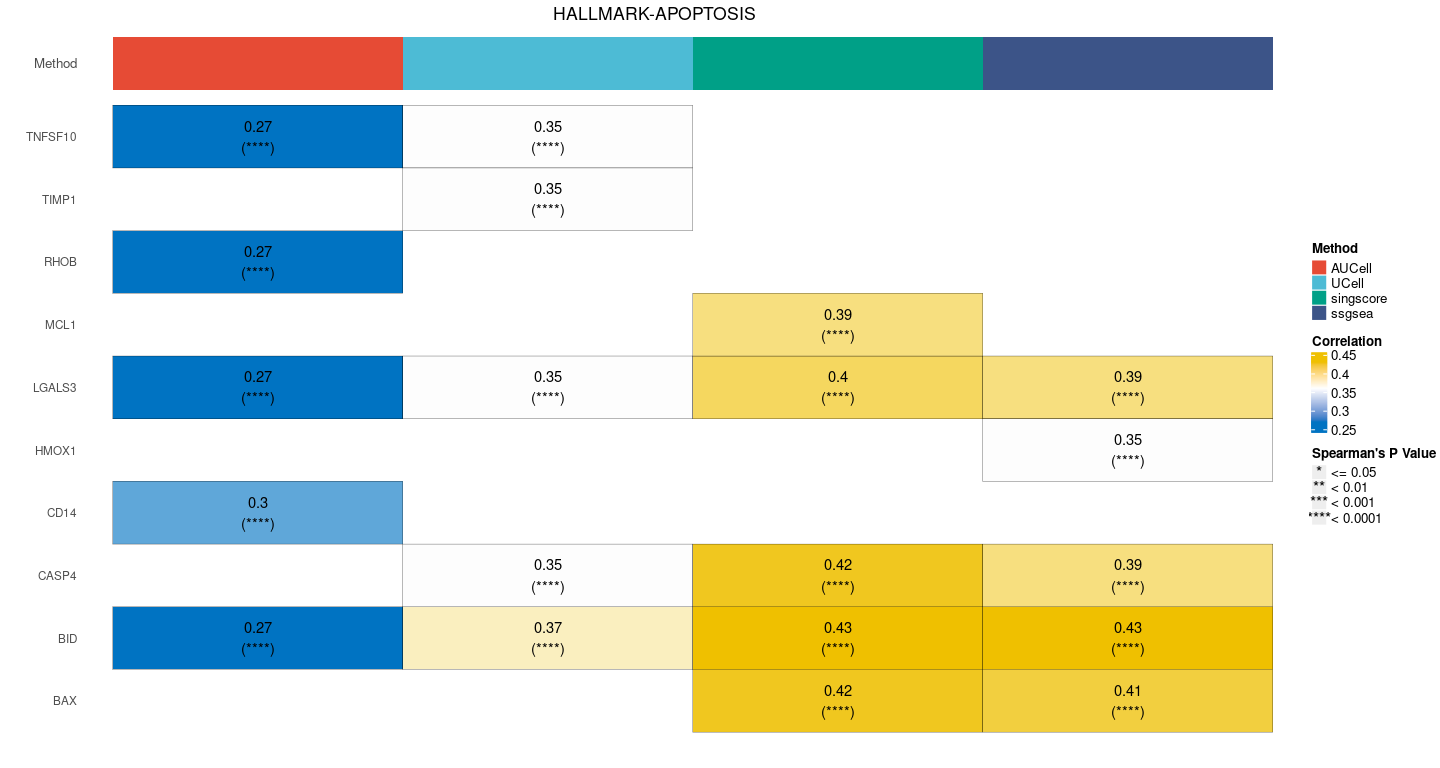
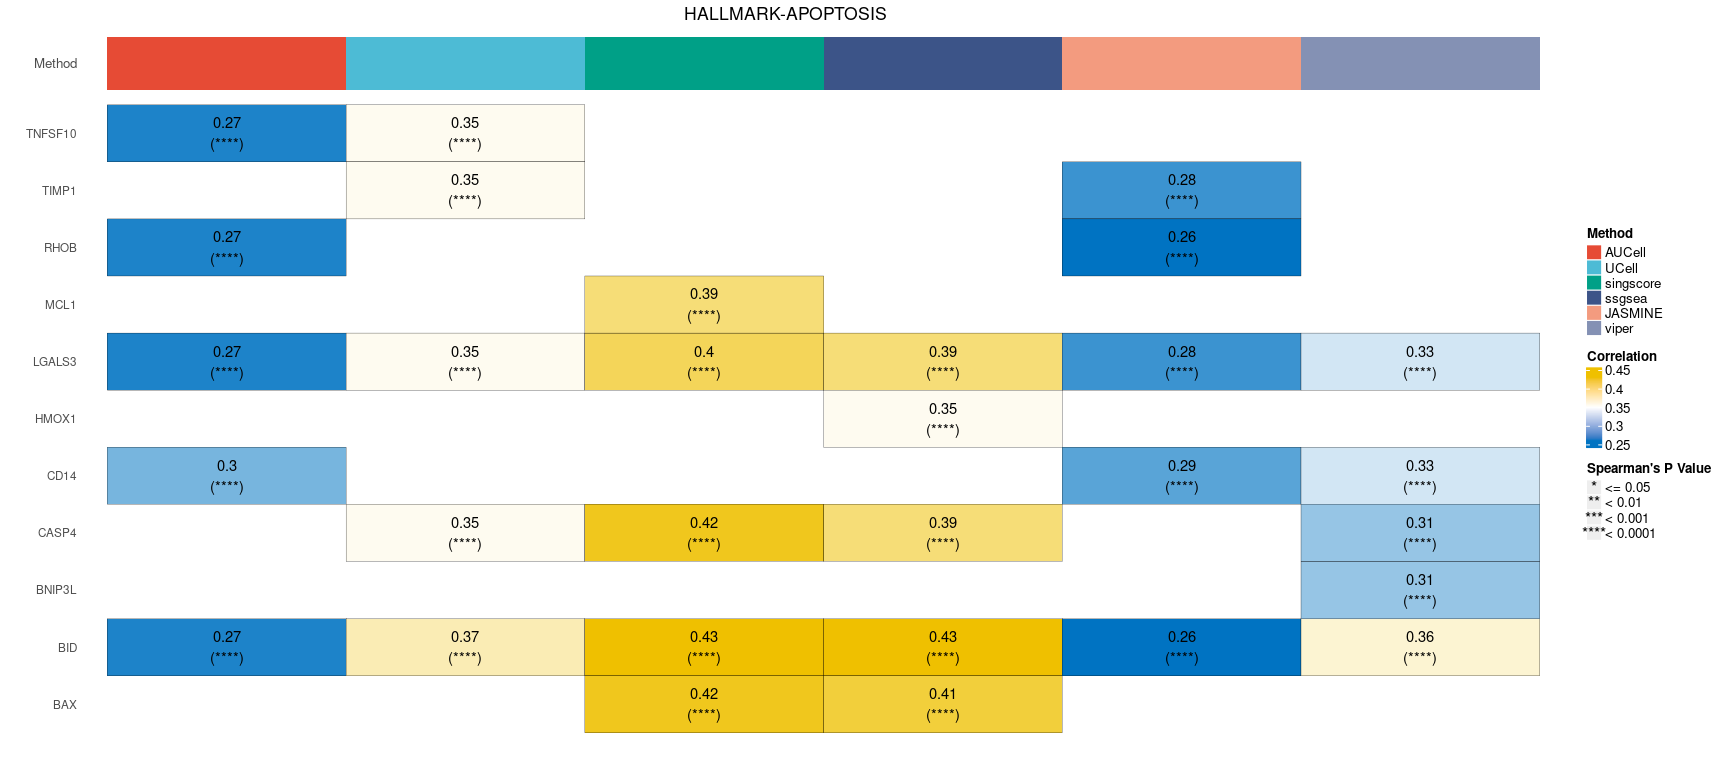
fix the bug of irGSEA.hub

diff --git a/docs/index.html b/docs/index.html
@@ -34,7 +34,7 @@
       </button>
       <span class="navbar-brand">
         <a class="navbar-link" href="index.html">irGSEA</a>
-        <span class="version label label-default" data-toggle="tooltip" data-placement="bottom" title="">3.2.1</span>
+        <span class="version label label-default" data-toggle="tooltip" data-placement="bottom" title="">3.2.2</span>
       </span>
     </div>
 
@@ -529,7 +529,8 @@
 <p>calculate the hub gene of the geneset based on the correlation between the geneset’s score and the expression or rank of gene included in the geneset</p>
 <div class="sourceCode" id="cb19"><pre class="downlit sourceCode r">
 <code class="sourceCode R"><span><span class="va">hub.result</span> <span class="op">&lt;-</span> <span class="fu"><a href="reference/irGSEA.hub.html">irGSEA.hub</a></span><span class="op">(</span>object <span class="op">=</span> <span class="va">pbmc3k.final</span>, assay <span class="op">=</span> <span class="st">"RNA"</span>, slot <span class="op">=</span> <span class="st">"data"</span>,</span>
-<span>                         method <span class="op">=</span> <span class="fu"><a href="https://rdrr.io/r/base/c.html" class="external-link">c</a></span><span class="op">(</span><span class="st">"AUCell"</span>,<span class="st">"UCell"</span>,<span class="st">"singscore"</span>, <span class="st">"ssgsea"</span><span class="op">)</span>,</span>
+<span>                         method <span class="op">=</span> <span class="fu"><a href="https://rdrr.io/r/base/c.html" class="external-link">c</a></span><span class="op">(</span><span class="st">"AUCell"</span>,<span class="st">"UCell"</span>,<span class="st">"singscore"</span>, <span class="st">"ssgsea"</span>,</span>
+<span>                                     <span class="st">"JASMINE"</span>, <span class="st">"viper"</span><span class="op">)</span>,</span>
 <span>                         show.geneset <span class="op">=</span> <span class="fu"><a href="https://rdrr.io/r/base/c.html" class="external-link">c</a></span><span class="op">(</span><span class="st">"HALLMARK-INFLAMMATORY-RESPONSE"</span>,</span>
 <span>                                          <span class="st">"HALLMARK-APOPTOSIS"</span><span class="op">)</span>,</span>
 <span>                         ncores <span class="op">=</span> <span class="fl">4</span>, type <span class="op">=</span> <span class="st">"rank"</span>, maxRank <span class="op">=</span> <span class="fl">2000</span>, top <span class="op">=</span> <span class="fl">5</span>,</span>
@@ -545,6 +546,12 @@
 <span><span class="co">#&gt; HALLMARK-INFLAMMATORY-RESPONSE</span></span>
 <span><span class="co">#&gt; HALLMARK-APOPTOSIS</span></span>
 <span><span class="co">#&gt; ssgsea</span></span>
+<span><span class="co">#&gt; HALLMARK-INFLAMMATORY-RESPONSE</span></span>
+<span><span class="co">#&gt; HALLMARK-APOPTOSIS</span></span>
+<span><span class="co">#&gt; JASMINE</span></span>
+<span><span class="co">#&gt; HALLMARK-INFLAMMATORY-RESPONSE</span></span>
+<span><span class="co">#&gt; HALLMARK-APOPTOSIS</span></span>
+<span><span class="co">#&gt; viper</span></span>
 <span><span class="co">#&gt; HALLMARK-INFLAMMATORY-RESPONSE</span></span>
 <span><span class="co">#&gt; HALLMARK-APOPTOSIS</span></span>
 <span><span class="co">#&gt; Warning: Unknown or uninitialised column: `text`.</span></span>
@@ -691,8 +698,8 @@
 <span><span class="fu"><a href="https://rdrr.io/r/utils/unzip.html" class="external-link">unzip</a></span><span class="op">(</span><span class="va">local_zip_path</span>, exdir <span class="op">=</span> <span class="st">"./"</span><span class="op">)</span></span>
 <span></span>
 <span><span class="co"># code modified by https://rdrr.io/github/cashoes/sear/src/data-raw/1_parse_msigdb_sqlite.r</span></span>
-<span><span class="va">con</span> <span class="op">&lt;-</span> <span class="fu">DBI</span><span class="fu">::</span><span class="fu"><a href="https://dbi.r-dbi.org/reference/dbConnect.html" class="external-link">dbConnect</a></span><span class="op">(</span><span class="fu">RSQLite</span><span class="fu">::</span><span class="fu"><a href="https://rdrr.io/pkg/RSQLite/man/SQLite.html" class="external-link">SQLite</a></span><span class="op">(</span><span class="op">)</span>, dbname <span class="op">=</span> <span class="st">'./msigdb_v2023.2.Hs.db'</span><span class="op">)</span></span>
-<span><span class="fu">DBI</span><span class="fu">::</span><span class="fu"><a href="https://dbi.r-dbi.org/reference/dbListTables.html" class="external-link">dbListTables</a></span><span class="op">(</span><span class="va">con</span><span class="op">)</span></span>
+<span><span class="va">con</span> <span class="op">&lt;-</span> <span class="fu">DBI</span><span class="fu">::</span><span class="fu"><a href="https://rdrr.io/pkg/DBI/man/dbConnect.html" class="external-link">dbConnect</a></span><span class="op">(</span><span class="fu">RSQLite</span><span class="fu">::</span><span class="fu"><a href="https://rsqlite.r-dbi.org/reference/SQLite.html" class="external-link">SQLite</a></span><span class="op">(</span><span class="op">)</span>, dbname <span class="op">=</span> <span class="st">'./msigdb_v2023.2.Hs.db'</span><span class="op">)</span></span>
+<span><span class="fu">DBI</span><span class="fu">::</span><span class="fu"><a href="https://rdrr.io/pkg/DBI/man/dbListTables.html" class="external-link">dbListTables</a></span><span class="op">(</span><span class="va">con</span><span class="op">)</span></span>
 <span></span>
 <span><span class="co"># define tables we want to combine</span></span>
 <span><span class="va">geneset_db</span> <span class="op">&lt;-</span> <span class="fu">dplyr</span><span class="fu">::</span><span class="fu"><a href="https://dplyr.tidyverse.org/reference/tbl.html" class="external-link">tbl</a></span><span class="op">(</span><span class="va">con</span>, <span class="st">'gene_set'</span><span class="op">)</span>                                              <span class="co"># standard_name, collection_name</span></span>
@@ -708,10 +715,10 @@
 <span>  <span class="fu">dplyr</span><span class="fu">::</span><span class="fu"><a href="https://dplyr.tidyverse.org/reference/mutate-joins.html" class="external-link">left_join</a></span><span class="op">(</span><span class="va">geneset_genesymbol_db</span>, by <span class="op">=</span> <span class="fu"><a href="https://rdrr.io/r/base/c.html" class="external-link">c</a></span><span class="op">(</span><span class="st">'id'</span> <span class="op">=</span> <span class="st">'gene_set_id'</span><span class="op">)</span><span class="op">)</span> <span class="op"><a href="reference/pipe.html">%&gt;%</a></span></span>
 <span>  <span class="fu">dplyr</span><span class="fu">::</span><span class="fu"><a href="https://dplyr.tidyverse.org/reference/mutate-joins.html" class="external-link">left_join</a></span><span class="op">(</span><span class="va">genesymbol_db</span>, by <span class="op">=</span> <span class="fu"><a href="https://rdrr.io/r/base/c.html" class="external-link">c</a></span><span class="op">(</span><span class="st">'gene_symbol_id'</span> <span class="op">=</span> <span class="st">'id'</span><span class="op">)</span><span class="op">)</span> <span class="op"><a href="reference/pipe.html">%&gt;%</a></span></span>
 <span>  <span class="fu">dplyr</span><span class="fu">::</span><span class="fu"><a href="https://dplyr.tidyverse.org/reference/select.html" class="external-link">select</a></span><span class="op">(</span>collection <span class="op">=</span> <span class="va">collection_name</span>, subcollection <span class="op">=</span> <span class="va">full_name</span>, geneset <span class="op">=</span> <span class="va">standard_name</span>, description <span class="op">=</span> <span class="va">description_brief</span>, <span class="va">symbol</span><span class="op">)</span> <span class="op"><a href="reference/pipe.html">%&gt;%</a></span></span>
-<span>  <span class="fu">dplyr</span><span class="fu">::</span><span class="fu"><a href="https://rdrr.io/pkg/tibble/man/as_tibble.html" class="external-link">as_tibble</a></span><span class="op">(</span><span class="op">)</span> </span>
+<span>  <span class="fu">dplyr</span><span class="fu">::</span><span class="fu"><a href="https://tibble.tidyverse.org/reference/as_tibble.html" class="external-link">as_tibble</a></span><span class="op">(</span><span class="op">)</span> </span>
 <span></span>
 <span><span class="co"># clean up</span></span>
-<span><span class="fu">DBI</span><span class="fu">::</span><span class="fu"><a href="https://dbi.r-dbi.org/reference/dbDisconnect.html" class="external-link">dbDisconnect</a></span><span class="op">(</span><span class="va">con</span><span class="op">)</span></span>
+<span><span class="fu">DBI</span><span class="fu">::</span><span class="fu"><a href="https://rdrr.io/pkg/DBI/man/dbDisconnect.html" class="external-link">dbDisconnect</a></span><span class="op">(</span><span class="va">con</span><span class="op">)</span></span>
 <span></span>
 <span></span>
 <span><span class="fu"><a href="https://rdrr.io/r/base/unique.html" class="external-link">unique</a></span><span class="op">(</span><span class="va">msigdb</span><span class="op">$</span><span class="va">collection</span><span class="op">)</span></span>
@@ -774,8 +781,8 @@
 <span><span class="va">msigdb.vessel</span> <span class="op">&lt;-</span> <span class="fu"><a href="https://rdrr.io/r/base/list.html" class="external-link">list</a></span><span class="op">(</span><span class="op">)</span></span>
 <span><span class="kw">for</span> <span class="op">(</span><span class="va">i</span> <span class="kw">in</span> <span class="va">category</span><span class="op">)</span> <span class="op">{</span></span>
 <span>  <span class="co"># Ignore case matching</span></span>
-<span>  <span class="va">find.index.description</span> <span class="op">&lt;-</span> <span class="fu">stringr</span><span class="fu">::</span><span class="fu"><a href="https://stringr.tidyverse.org/reference/str_detect.html" class="external-link">str_detect</a></span><span class="op">(</span><span class="va">msigdb</span><span class="op">$</span><span class="va">description</span>, pattern <span class="op">=</span> <span class="fu"><a href="https://stringr.tidyverse.org/reference/modifiers.html" class="external-link">regex</a></span><span class="op">(</span><span class="fu"><a href="https://tidyselect.r-lib.org/reference/all_of.html" class="external-link">all_of</a></span><span class="op">(</span><span class="va">i</span><span class="op">)</span>, ignore_case<span class="op">=</span><span class="cn">TRUE</span><span class="op">)</span><span class="op">)</span></span>
-<span>  <span class="va">find.index.name</span> <span class="op">&lt;-</span> <span class="fu">stringr</span><span class="fu">::</span><span class="fu"><a href="https://stringr.tidyverse.org/reference/str_detect.html" class="external-link">str_detect</a></span><span class="op">(</span><span class="va">msigdb</span><span class="op">$</span><span class="va">geneset</span>, pattern <span class="op">=</span> <span class="fu"><a href="https://stringr.tidyverse.org/reference/modifiers.html" class="external-link">regex</a></span><span class="op">(</span><span class="fu"><a href="https://tidyselect.r-lib.org/reference/all_of.html" class="external-link">all_of</a></span><span class="op">(</span><span class="va">i</span><span class="op">)</span>, ignore_case<span class="op">=</span><span class="cn">TRUE</span><span class="op">)</span><span class="op">)</span></span>
+<span>  <span class="va">find.index.description</span> <span class="op">&lt;-</span> <span class="fu">stringr</span><span class="fu">::</span><span class="fu"><a href="https://stringr.tidyverse.org/reference/str_detect.html" class="external-link">str_detect</a></span><span class="op">(</span><span class="va">msigdb</span><span class="op">$</span><span class="va">description</span>, pattern <span class="op">=</span> <span class="fu"><a href="https://stringr.tidyverse.org/reference/modifiers.html" class="external-link">regex</a></span><span class="op">(</span><span class="fu"><a href="https://rdrr.io/pkg/tidyselect/man/all_of.html" class="external-link">all_of</a></span><span class="op">(</span><span class="va">i</span><span class="op">)</span>, ignore_case<span class="op">=</span><span class="cn">TRUE</span><span class="op">)</span><span class="op">)</span></span>
+<span>  <span class="va">find.index.name</span> <span class="op">&lt;-</span> <span class="fu">stringr</span><span class="fu">::</span><span class="fu"><a href="https://stringr.tidyverse.org/reference/str_detect.html" class="external-link">str_detect</a></span><span class="op">(</span><span class="va">msigdb</span><span class="op">$</span><span class="va">geneset</span>, pattern <span class="op">=</span> <span class="fu"><a href="https://stringr.tidyverse.org/reference/modifiers.html" class="external-link">regex</a></span><span class="op">(</span><span class="fu"><a href="https://rdrr.io/pkg/tidyselect/man/all_of.html" class="external-link">all_of</a></span><span class="op">(</span><span class="va">i</span><span class="op">)</span>, ignore_case<span class="op">=</span><span class="cn">TRUE</span><span class="op">)</span><span class="op">)</span></span>
 <span>  <span class="va">msigdb.vessel</span><span class="op">[[</span><span class="va">i</span><span class="op">]</span><span class="op">]</span> <span class="op">&lt;-</span> <span class="va">msigdb</span><span class="op">[</span><span class="va">find.index.description</span> <span class="op">|</span> <span class="va">find.index.name</span>, <span class="op">]</span> <span class="op"><a href="reference/pipe.html">%&gt;%</a></span> <span class="fu"><a href="https://dplyr.tidyverse.org/reference/mutate.html" class="external-link">mutate</a></span><span class="op">(</span>category <span class="op">=</span> <span class="va">i</span><span class="op">)</span></span>
 <span>  </span>
 <span><span class="op">}</span></span>

diff --git a/docs/authors.html b/docs/authors.html
@@ -17,7 +17,7 @@
       </button>
       <span class="navbar-brand">
         <a class="navbar-link" href="index.html">irGSEA</a>
-        <span class="version label label-default" data-toggle="tooltip" data-placement="bottom" title="">3.2.1</span>
+        <span class="version label label-default" data-toggle="tooltip" data-placement="bottom" title="">3.2.2</span>
       </span>
     </div>
 
@@ -60,13 +60,13 @@
 
     <p>Fan C (2024).
 <em>irGSEA: The integration of single cell rank-based gene set enrichment analysis</em>.
-R package version 3.2.1, <a href="https://github.com/chuiqin/irGSEA" class="external-link">https://github.com/chuiqin/irGSEA</a>. 
+R package version 3.2.2, <a href="https://github.com/chuiqin/irGSEA" class="external-link">https://github.com/chuiqin/irGSEA</a>. 
 </p>
     <pre>@Manual{,
   title = {irGSEA: The integration of single cell rank-based gene set enrichment analysis},
   author = {Chuiqin Fan},
   year = {2024},
-  note = {R package version 3.2.1},
+  note = {R package version 3.2.2},
   url = {https://github.com/chuiqin/irGSEA},
 }</pre>
 

diff --git a/docs/reference/irGSEA.integrate.html b/docs/reference/irGSEA.integrate.html
@@ -18,7 +18,7 @@ adjusted p value &amp;lt; 0.05 are used to integrated through RRA."><!-- mathjax
       </button>
       <span class="navbar-brand">
         <a class="navbar-link" href="../index.html">irGSEA</a>
-        <span class="version label label-default" data-toggle="tooltip" data-placement="bottom" title="">3.2.1</span>
+        <span class="version label label-default" data-toggle="tooltip" data-placement="bottom" title="">3.2.2</span>
       </span>
     </div>
 

diff --git a/docs/reference/irGSEA.ridgeplot.html b/docs/reference/irGSEA.ridgeplot.html
@@ -20,7 +20,7 @@ Easy to show the data distribution by ridge plot"><!-- mathjax --><script src="h
       </button>
       <span class="navbar-brand">
         <a class="navbar-link" href="../index.html">irGSEA</a>
-        <span class="version label label-default" data-toggle="tooltip" data-placement="bottom" title="">3.2.1</span>
+        <span class="version label label-default" data-toggle="tooltip" data-placement="bottom" title="">3.2.2</span>
       </span>
     </div>
 

diff --git a/docs/reference/irGSEA.score.html b/docs/reference/irGSEA.score.html
@@ -19,7 +19,7 @@ including these score matrix."><!-- mathjax --><script src="https://cdnjs.cloudf
       </button>
       <span class="navbar-brand">
         <a class="navbar-link" href="../index.html">irGSEA</a>
-        <span class="version label label-default" data-toggle="tooltip" data-placement="bottom" title="">3.2.1</span>
+        <span class="version label label-default" data-toggle="tooltip" data-placement="bottom" title="">3.2.2</span>
       </span>
     </div>
 

diff --git a/docs/reference/index.html b/docs/reference/index.html
@@ -17,7 +17,7 @@
       </button>
       <span class="navbar-brand">
         <a class="navbar-link" href="../index.html">irGSEA</a>
-        <span class="version label label-default" data-toggle="tooltip" data-placement="bottom" title="">3.2.1</span>
+        <span class="version label label-default" data-toggle="tooltip" data-placement="bottom" title="">3.2.2</span>
       </span>
     </div>
 

diff --git a/docs/reference/irGSEA.barplot.html b/docs/reference/irGSEA.barplot.html
@@ -17,7 +17,7 @@
       </button>
       <span class="navbar-brand">
         <a class="navbar-link" href="../index.html">irGSEA</a>
-        <span class="version label label-default" data-toggle="tooltip" data-placement="bottom" title="">3.2.1</span>
+        <span class="version label label-default" data-toggle="tooltip" data-placement="bottom" title="">3.2.2</span>
       </span>
     </div>
 

diff --git a/docs/reference/irGSEA.bubble.html b/docs/reference/irGSEA.bubble.html
@@ -17,7 +17,7 @@
       </button>
       <span class="navbar-brand">
         <a class="navbar-link" href="../index.html">irGSEA</a>
-        <span class="version label label-default" data-toggle="tooltip" data-placement="bottom" title="">3.2.1</span>
+        <span class="version label label-default" data-toggle="tooltip" data-placement="bottom" title="">3.2.2</span>
       </span>
     </div>
 

diff --git a/docs/reference/irGSEA.density.scatterplot.html b/docs/reference/irGSEA.density.scatterplot.html
@@ -17,7 +17,7 @@
       </button>
       <span class="navbar-brand">
         <a class="navbar-link" href="../index.html">irGSEA</a>
-        <span class="version label label-default" data-toggle="tooltip" data-placement="bottom" title="">3.2.1</span>
+        <span class="version label label-default" data-toggle="tooltip" data-placement="bottom" title="">3.2.2</span>
       </span>
     </div>
 

diff --git a/docs/reference/irGSEA.densityheatmap.html b/docs/reference/irGSEA.densityheatmap.html
@@ -17,7 +17,7 @@
       </button>
       <span class="navbar-brand">
         <a class="navbar-link" href="../index.html">irGSEA</a>
-        <span class="version label label-default" data-toggle="tooltip" data-placement="bottom" title="">3.2.1</span>
+        <span class="version label label-default" data-toggle="tooltip" data-placement="bottom" title="">3.2.2</span>
       </span>
     </div>
 

diff --git a/docs/reference/irGSEA.halfvlnplot.html b/docs/reference/irGSEA.halfvlnplot.html
@@ -17,7 +17,7 @@
       </button>
       <span class="navbar-brand">
         <a class="navbar-link" href="../index.html">irGSEA</a>
-        <span class="version label label-default" data-toggle="tooltip" data-placement="bottom" title="">3.2.1</span>
+        <span class="version label label-default" data-toggle="tooltip" data-placement="bottom" title="">3.2.2</span>
       </span>
     </div>
 

diff --git a/docs/reference/irGSEA.heatmap.html b/docs/reference/irGSEA.heatmap.html
@@ -17,7 +17,7 @@
       </button>
       <span class="navbar-brand">
         <a class="navbar-link" href="../index.html">irGSEA</a>
-        <span class="version label label-default" data-toggle="tooltip" data-placement="bottom" title="">3.2.1</span>
+        <span class="version label label-default" data-toggle="tooltip" data-placement="bottom" title="">3.2.2</span>
       </span>
     </div>
 
